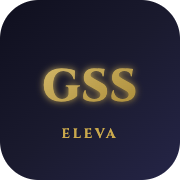
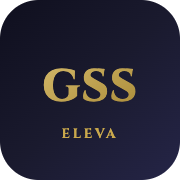
fix(eleva): GSS do ícone nítido (Cinzel sem glow), igual ao Maestria
Comparação lado-a-lado mostrou que a fonte já era Cinzel; a diferença era o glow
(borrava as bordas). Removido o filtro de brilho do GSS. og -> icon-eleva4.png.

Changed region(s): [[0.2222, 0.3611, 0.7778, 0.5833]]

diff --git a/index.html b/index.html
@@ -16,11 +16,11 @@
     <meta property="og:title" content="Eleva" />
     <meta property="og:description" content="Cada produto vira uma pílula de 30s: quem vende aprende o benefício, quebra a objeção da cliente e manda a resposta pronta no WhatsApp (com o vídeo, quando o produto tem)." />
     <meta property="og:url" content="https://eleva-five.vercel.app/eleva" />
-    <meta property="og:image" content="https://eleva-five.vercel.app/icon-eleva3.png" />
+    <meta property="og:image" content="https://eleva-five.vercel.app/icon-eleva4.png" />
     <meta name="twitter:card" content="summary" />
     <meta name="twitter:title" content="Eleva" />
     <meta name="twitter:description" content="Produto que vende na ponta — pílulas de 30s pra sua força de venda." />
-    <meta name="twitter:image" content="https://eleva-five.vercel.app/icon-eleva3.png" />
+    <meta name="twitter:image" content="https://eleva-five.vercel.app/icon-eleva4.png" />
     <link rel="manifest" href="/manifest.json" />
     <link rel="preconnect" href="https://fonts.googleapis.com" />
     <link rel="preconnect" href="https://fonts.gstatic.com" crossorigin />

diff --git a/public/sw.js b/public/sw.js
@@ -1,5 +1,5 @@
 // Service Worker — network first, sem cache de JS/CSS (evita versões travadas)
-const CACHE_NAME = 'gss-academy-v50';
+const CACHE_NAME = 'gss-academy-v51';
 const STATIC_CACHE = ['/', '/manifest.json'];
 
 self.addEventListener('install', (event) => {
